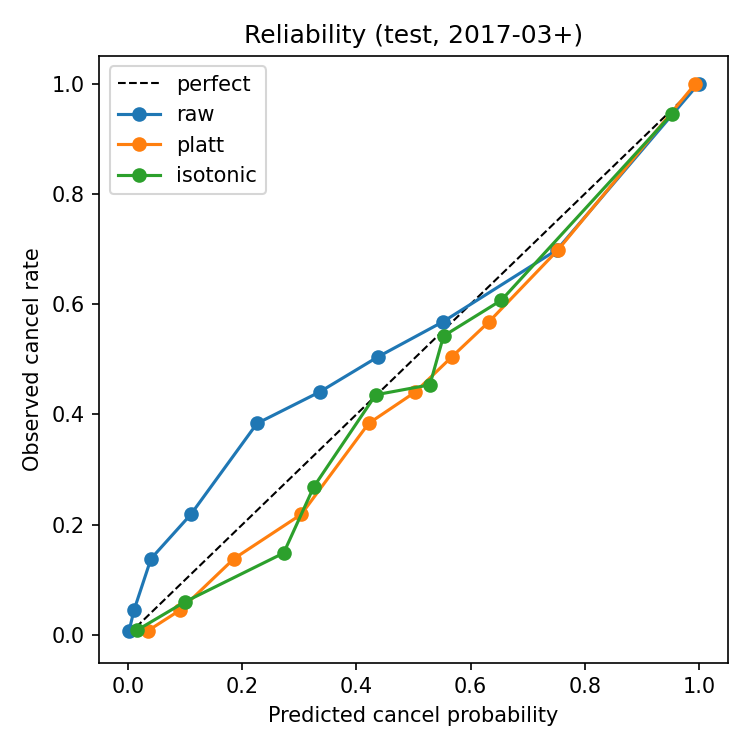
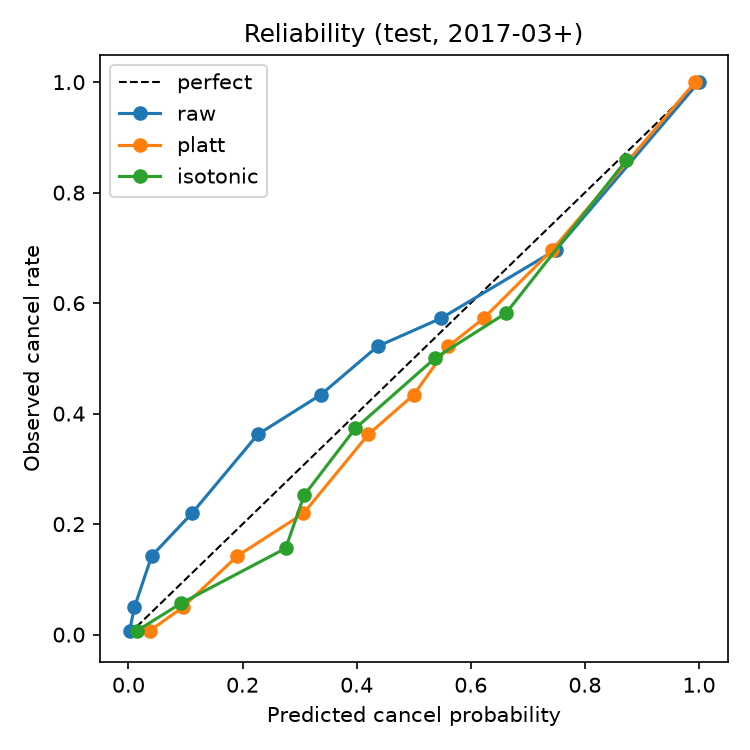
Update README and reports with locally reproduced Phase 2-3 numbers
Claude-Session: https://claude.ai/code/session_01BaMqLk4VUpKL539A4cXSQP

diff --git a/README.md b/README.md
@@ -29,12 +29,12 @@ pytest
 
 | Split | Model | ROC-AUC | PR-AUC | Brier |
 |---|---|---|---|---|
-| Temporal (train < 2017-03, test after) | Logistic baseline | 0.837 | 0.790 | 0.161 |
-| Temporal | HistGradientBoosting | **0.854** | **0.809** | **0.155** |
+| Temporal (train < 2017-03, test after) | Logistic baseline | 0.836 | 0.789 | 0.161 |
+| Temporal | HistGradientBoosting | **0.852** | **0.807** | **0.156** |
 | Random (for comparison) | Logistic baseline | 0.875 | 0.828 | 0.135 |
-| Random | HistGradientBoosting | 0.929 | 0.901 | 0.102 |
+| Random | HistGradientBoosting | 0.929 | 0.900 | 0.102 |
 
-A random split overstates performance (GBM AUC 0.929 vs 0.854 on a temporal split), so
+A random split overstates performance (GBM AUC 0.929 vs 0.852 on a temporal split), so
 all reported numbers use the temporal split. Reproduce with `python -m hotel_risk.evaluate`.
 
 ## Phase 3: calibration and thresholds
@@ -44,12 +44,12 @@ Calibrators and the decision threshold are fit on the calibration slice only.
 
 | Test scores | Brier | Log loss | ECE |
 |---|---|---|---|
-| Raw GBM | 0.158 | 0.474 | 0.064 |
-| Platt (sigmoid) | 0.155 | 0.456 | 0.049 |
-| Isotonic | 0.155 | 0.456 | 0.043 |
+| Raw GBM | 0.158 | 0.476 | 0.066 |
+| Platt (sigmoid) | 0.155 | 0.457 | 0.047 |
+| Isotonic | 0.156 | 0.460 | 0.042 |
 
 Calibration improves probability quality without hurting ranking (AUC ~0.85). The threshold
-chosen for >=80% precision on the calibration slice (0.45) delivered 73% precision / 61% recall
+chosen for >=80% precision on the calibration slice (0.46) delivered 74% precision / 60% recall
 on test, because the cancel rate drifted from 34% to 40%. The highest-risk 10% of bookings were
 100% cancellations on test (largely non-refundable-deposit bookings, a known quirk of this
 dataset), so the score is most informative in the middle of the range. Phase 4 prices these
